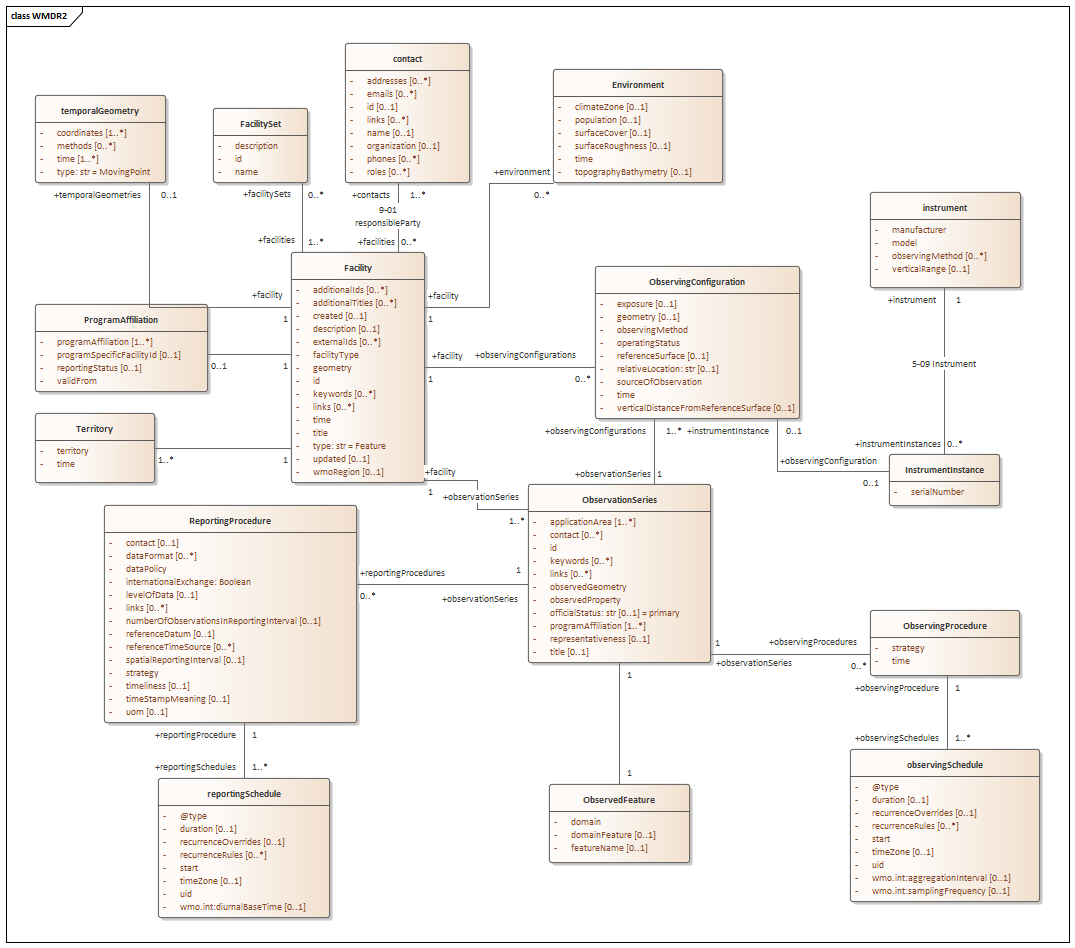
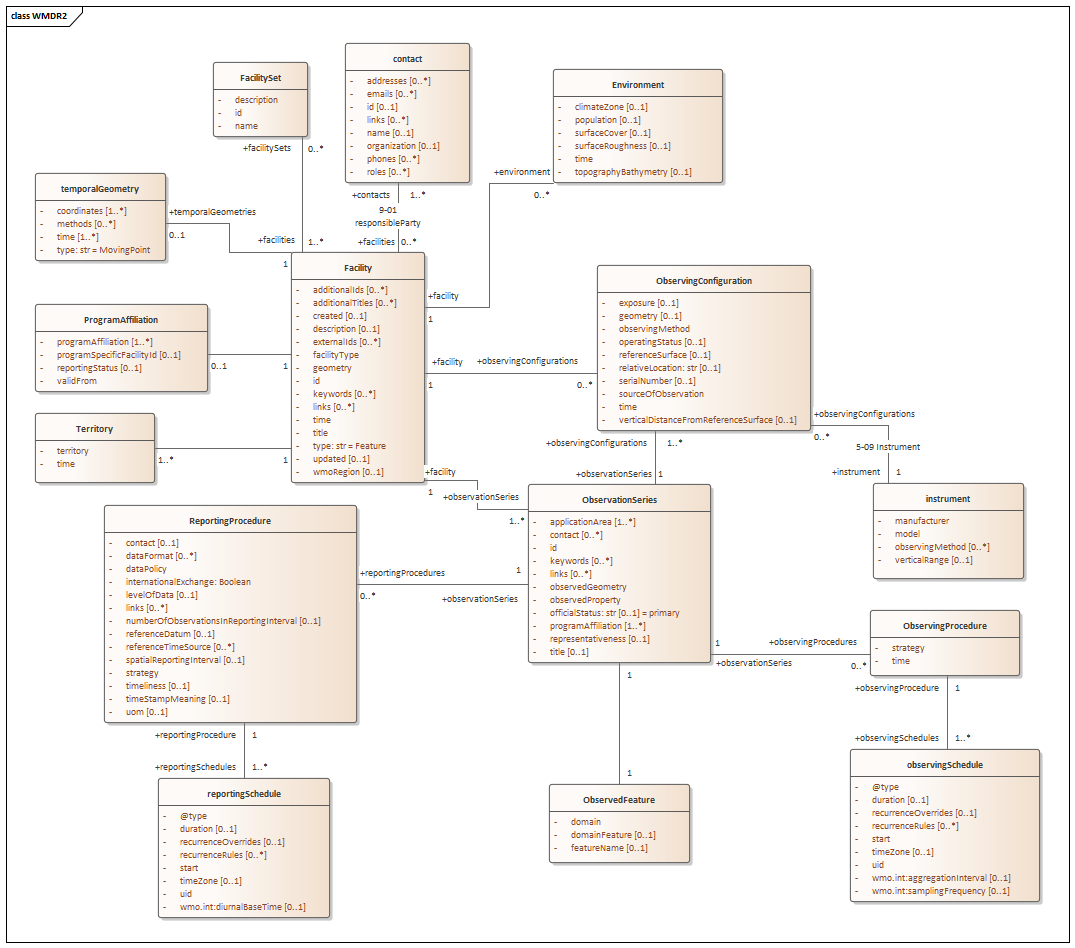
fix,feat: v0.3.1 serialNumber included as optional under observingConfiguration, operatingStatus optional, correction to UML, schema and tests, no effect on converter

diff --git a/tests/test_schema.py b/tests/test_schema.py
@@ -102,3 +102,28 @@ def test_schema_accepts_aggregation_interval_on_reusable_schedule() -> None:
     ]
     errors = list(_validator().iter_errors(record))
     assert errors == []
+
+
+def test_schema_accepts_serial_number_on_observing_configuration() -> None:
+    record = _valid_record()
+    cfg = record["properties"]["observationSeries"][0]["observingConfigurations"][0]
+    cfg["serialNumber"] = "SN-001"
+    errors = list(_validator().iter_errors(record))
+    assert errors == []
+
+
+def test_schema_rejects_serial_number_on_instrument_catalogue_entry() -> None:
+    record = _valid_record()
+    record["properties"]["instruments"] = [
+        {"id": "instrument:maker-model", "manufacturer": "Maker", "model": "Model", "serialNumber": "SN-001"}
+    ]
+    errors = list(_validator().iter_errors(record))
+    assert errors
+
+
+def test_schema_rejects_multiple_operating_status_values_on_observing_configuration() -> None:
+    record = _valid_record()
+    cfg = record["properties"]["observationSeries"][0]["observingConfigurations"][0]
+    cfg["operatingStatus"] = ["operational", "standby"]
+    errors = list(_validator().iter_errors(record))
+    assert errors

diff --git a/tests/test_converter.py b/tests/test_converter.py
@@ -910,3 +910,17 @@ def test_normalize_existing_record_converts_legacy_identifiers_to_additional_ids
     assert normalized["properties"]["additionalIds"] == ["0-756-1-Blatten"]
     assert "identifiers" not in normalized["properties"]
 
+
+
+def test_operating_status_is_not_fabricated_when_absent() -> None:
+    record = converter.convert_payload(_payload(), source_name="20200102_0-20008-0-THE")
+    cfg = record["properties"]["observationSeries"][0]["observingConfigurations"][0]
+    assert "operatingStatus" not in cfg
+
+
+def test_serial_number_stays_on_observing_configuration_not_instrument_catalogue() -> None:
+    record = converter.convert_payload(_payload(), source_name="20200102_0-20008-0-THE")
+    props = record["properties"]
+    cfg = props["observationSeries"][0]["observingConfigurations"][0]
+    assert cfg["serialNumber"] == "SN1"
+    assert all("serialNumber" not in instrument for instrument in props["instruments"])

diff --git a/README.md b/README.md
@@ -225,7 +225,7 @@ Programme affiliations at facility level are temporal objects because the statio
 }
 ```
 
-Serial numbers are not part of the instrument catalogue because they identify individual items, not catalogue entries.  When serial-numbered source information cannot be represented without changing catalogue semantics, it should not be promoted into `properties.instruments[]`.
+Serial numbers are not part of the instrument catalogue because they identify individual items, not catalogue entries.  They are optional instance metadata on `observingConfigurations[]`.  An instrument can therefore be documented through the catalogue reference even when the serial number is unknown.  In that case, omit `serialNumber`; do not create a catalogue-specific instrument instance.
 
 ## Observation series
 
@@ -257,7 +257,7 @@ An observation series describes observations of one property or closely related 
 
 ## Observing configurations
 
-`observingConfigurations[]` is the time-bound history of how and where an observation series is made.  It is the place for observing method, operating status, source of observation, instrument reference, exposure, local geometry, reference surface, and vertical distance.
+`observingConfigurations[]` is the time-bound history of how and where an observation series is made.  It is the place for observing method, optional operating status, source of observation, instrument reference, optional serial number, exposure, local geometry, reference surface, and vertical distance.
 
 ```json
 {
@@ -266,6 +266,7 @@ An observation series describes observations of one property or closely related 
   "operatingStatus": "operational",
   "sourceOfObservation": "automaticReading",
   "instrument": "instrument:thermo--49i",
+  "serialNumber": "SN-001",
   "exposure": "good",
   "geometry": {
     "type": "Point",
@@ -279,7 +280,7 @@ An observation series describes observations of one property or closely related 
 }
 ```
 
-An observing configuration requires `observingMethod` and a `time` interval.  Use `{"nilReason": "unknown"}` for an explicitly unknown method.  Do not emit discovery keywords or a nested location wrapper here; the relevant location fields are represented directly on the configuration.
+An observing configuration requires `observingMethod` and a `time` interval.  `operatingStatus` has cardinality 0..1 and is emitted only when recorded.  `serialNumber` also has cardinality 0..1 and is emitted only when the instrument instance serial number is known; a missing serial number does not prevent documenting the instrument via `instrument`.  Use `{"nilReason": "unknown"}` for an explicitly unknown method.  Do not emit discovery keywords or a nested location wrapper here; the relevant location fields are represented directly on the configuration.
 
 ## Observing procedures
 